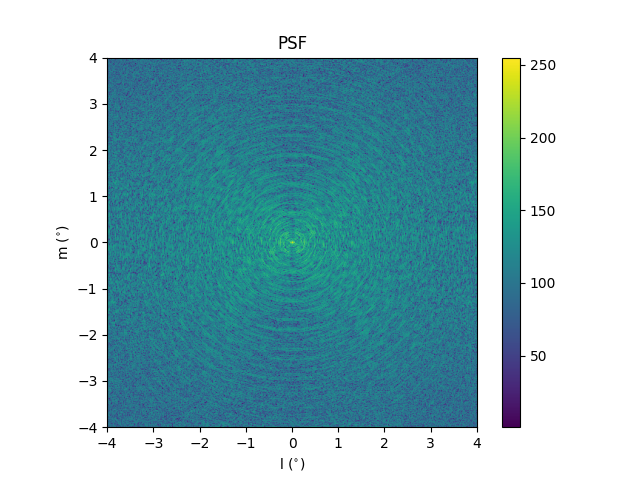
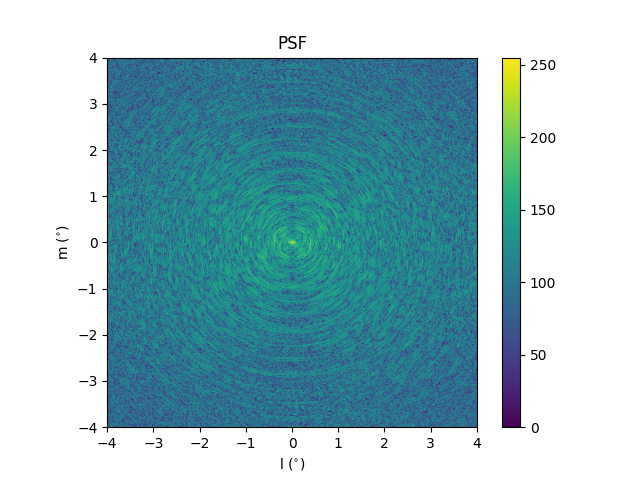
update

diff --git a/assignment2/PartB/simvis.py b/assignment2/PartB/simvis.py
@@ -33,8 +33,6 @@ class SimVis:
         self.v_min = -0.5 * self.Ny * cell_size
         self.u_max = -self.u_min
         self.v_max = -self.v_min
-        self.u_range = np.linspace(np.floor(self.u_min), np.ceil(self.u_max), self.Nx)
-        self.v_range = np.linspace(np.floor(self.v_min), np.ceil(self.v_max), self.Ny)
 
         self.skymodel = self._get_skymodel()
         self.baselines = self._get_baselines()
@@ -93,10 +91,8 @@ class SimVis:
 
     def _scale_uv(self):
         scaled_uv = np.copy(self.uv)
-        max_u = np.max(np.abs(self.uv[:, 0]))
-        max_v = np.max(np.abs(self.uv[:, 1]))
-        scaled_uv[:, 0] /= (2 * max_u / self.Nx)
-        scaled_uv[:, 1] /= (2 * max_v / self.Ny)
+        scaled_uv[:, 0] /= (2 * self.u_max / self.Nx)
+        scaled_uv[:, 1] /= (2 * self.v_max / self.Ny)
         scaled_uv[:, 0] += self.Nx / 2
         scaled_uv[:, 1] += self.Ny / 2
         return scaled_uv
